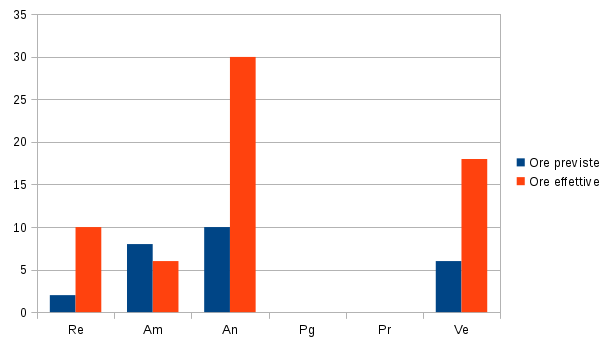
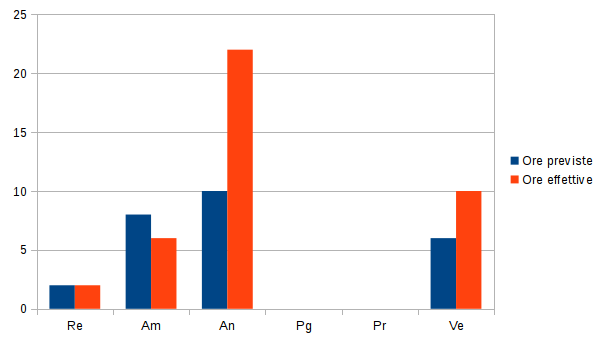
update diagrammi

diff --git a/doc/src/pianoDiProgetto.tex b/doc/src/pianoDiProgetto.tex
@@ -1899,7 +1899,7 @@ Nella tabella seguente sono riportate le differenze tra le ore di lavoro previst
 			\midrule
             \AB{} & 2(0) & & & 6(-2) & & 3(0) & 11(-2) \\
 			\midrule
-            \NDC{} & & & & 8(0) & & 3(-1) & 11(-1) \\
+            \NDC{} & & & & 8(0) & & 3(0) & 11(0	) \\
 			\midrule
             \TP{} & & & & 8(0) & & & 8(0) \\
 			\midrule
@@ -2013,7 +2013,7 @@ Nella tabella seguente sono riportate le differenze tra le ore di lavoro previst
 \begin{center}
 	\begin{figure}[H]
 		\centering
-		% \includegraphics[width=\textwidth]{../img/diagrammaBarreProgettazioneDiDettaglioConsuntivo.png}
+		\includegraphics[width=\textwidth]{../img/diagrammaBarreProgettazioneDiDettaglioConsuntivo.png}
 		\caption{Diagramma della ripartizione oraria dei ruoli effettiva - \FPD{}}
 	\end{figure}
 \end{center}
@@ -2022,7 +2022,7 @@ Nella tabella seguente sono riportate le differenze tra le ore di lavoro previst
 Come previsto la semplificazione dei requisiti ha ridotto i costi della progettazione e relativa verifica. Nonostante anche in questo periodo di siano state più ore di lavoro per il \RE{} rispetto a quanto preventivato, il totale delle ore ha portato ad un deficit di \euro{}-255.00 che sommato riporta il costo totale del progetto di nuovo in attivo di \euro{}146.00.
 
 \subsubsection{Preventivo a finire}
-Dato il bilancio di \euro{}-85 e considerando che si prevedono anche notevoli semplificazioni anche nel periodo di \FC{}, sarà probabilmente possibile utilizzare il modello incrementale per concentrarsi anche su alcuni requisiti desiderabili o opzionali.  Il costo totale dell'applicazione si è abbassato ulteriormente e attualmente è di \euro{}14 157.00(-146.00).
+Si prevedono notevoli semplificazioni anche nel periodo di \FC{}, sarà probabilmente possibile utilizzare il modello incrementale per concentrarsi anche su alcuni requisiti desiderabili o opzionali. Il costo totale dell'applicazione si è abbassato ulteriormente ed ora è minore di quanto preventivato inizialmente e attualmente è di \euro{}14 157.00(-146.00).
 
 \newpage
 
